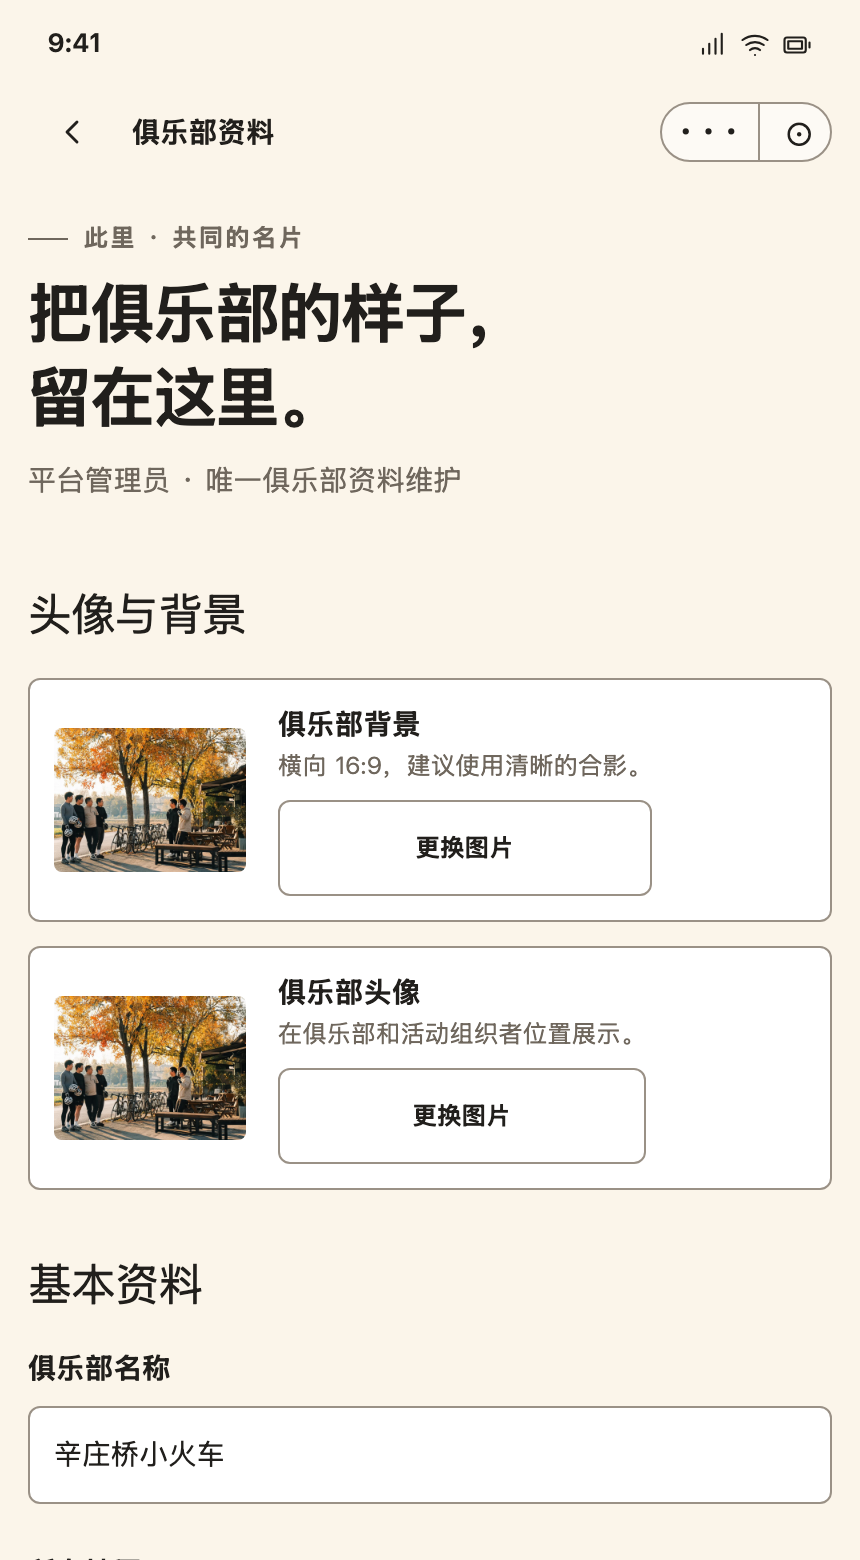
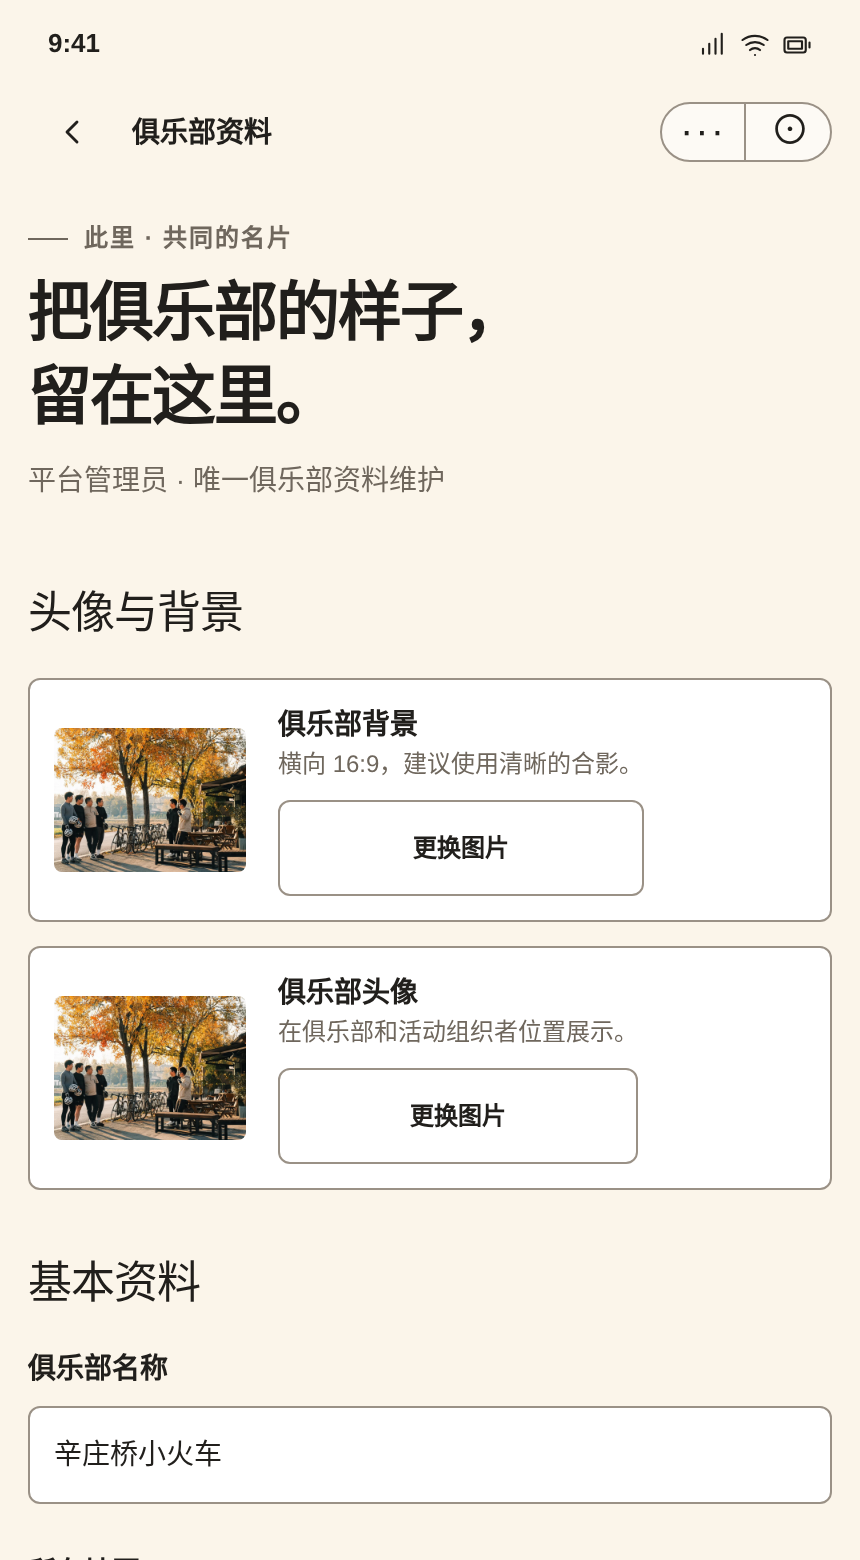
feat(profile): 优化资料授权与骑友媒体加载
收紧活动时长和关键信息的单行展示，为缺失头像与背景增加明确降级。

在资料填写前补充用途确认和稍后退出闭环，并新增可展开的权限状态卡。

启用共享头像延迟加载和渐进显示，同步发布日志、响应式视觉证据与回归测试。

diff --git a/miniprogram/pages/profile-edit/index.ts b/miniprogram/pages/profile-edit/index.ts
@@ -19,6 +19,7 @@ const MAX_BACKGROUND_SOURCE_BYTES = 20 * 1024 * 1024;
 const BACKGROUND_COMPRESS_QUALITY = 82;
 const BACKGROUND_COMPRESS_WIDTH = 1600;
 const BACKGROUND_COMPRESS_HEIGHT = 900;
+const PROFILE_CONSENT_STORAGE_KEY = 'cili-profile-media-consent-v1';
 const PROFILE_BACKGROUND_CATEGORY = 'ride' as const;
 type MediaStage = 'selection' | 'authorize' | 'upload' | 'finalize' | 'setAvatar' | 'preview';
 type SelectedImage = { path: string; size?: number };
@@ -471,9 +472,18 @@ Page({
     avatarPreviewUrl: '',
     canEditDetails: false,
     photoItems: [] as PhotoItem[],
+    consentVisible: false,
+    permissionDetailsVisible: false,
   },
   async onLoad() {
     this.unloaded = false;
+    let consentAcknowledged = false;
+    try {
+      consentAcknowledged = Boolean(wx.getStorageSync(PROFILE_CONSENT_STORAGE_KEY));
+    } catch {
+      // 本地存储不可用时仍允许用户通过本次确认继续。
+    }
+    this.safeSetData({ consentVisible: !consentAcknowledged });
     const state = await runPageTask(() => rideService.getProfile(), '资料加载失败');
     const loadedProfile = normalizeBackgroundProfile(state.data || null);
     this.loadedSensitive = sensitiveValues(loadedProfile);
@@ -496,6 +506,25 @@ Page({
     );
     await Promise.all([this.loadAvatarPreview(cardPromise), this.loadPhotoPreviews(cardPromise)]);
   },
+  acknowledgeConsent() {
+    try {
+      wx.setStorageSync(PROFILE_CONSENT_STORAGE_KEY, true);
+    } catch {
+      // 确认结果写入失败不阻断本次编辑。
+    }
+    this.safeSetData({ consentVisible: false });
+  },
+  deferConsent() {
+    this.safeSetData({ consentVisible: false });
+    wx.navigateBack?.();
+  },
+  showConsent() {
+    this.safeSetData({ consentVisible: true });
+  },
+  togglePermissionDetails() {
+    this.safeSetData({ permissionDetailsVisible: !this.data.permissionDetailsVisible });
+  },
+  keepConsentSheet() {},
   onHide() {
     this.avatarPreviewRequestId += 1;
     this.photoPreviewRequestId += 1;

diff --git a/tests/profile-consent-performance.test.ts b/tests/profile-consent-performance.test.ts
@@ -1,0 +1,40 @@
+// @ts-expect-error The repository intentionally omits Node typings; Vitest provides this runtime.
+import { readFileSync } from 'node:fs';
+import { describe, expect, it } from 'vitest';
+
+const read = (path: string) => readFileSync(path, 'utf8');
+
+describe('资料授权、骑友媒体与加载体验优化', () => {
+  it('资料填写前展示用途说明并保留稍后再说闭环', () => {
+    const template = read('miniprogram/pages/profile-edit/index.wxml');
+    const source = read('miniprogram/pages/profile-edit/index.ts');
+    expect(template).toContain('这些资料会用在哪里？');
+    expect(template).toContain('确认并继续填写');
+    expect(template).toContain('稍后再说');
+    expect(source).toContain('PROFILE_CONSENT_STORAGE_KEY');
+    expect(source).toContain('acknowledgeConsent');
+  });
+
+  it('资料页持续展示可展开的权限状态卡', () => {
+    const template = read('miniprogram/pages/profile-edit/index.wxml');
+    expect(template).toContain('资料展示权限');
+    expect(template).toContain("p.avatarVisibility === 'public'");
+    expect(template).toContain('重新查看授权说明');
+  });
+
+  it('活动指标保持单行并为骑友媒体提供明确降级', () => {
+    const template = read('miniprogram/pages/activity-detail/index.wxml');
+    const style = read('miniprogram/pages/activity-detail/index.wxss');
+    const source = read('miniprogram/pages/activity-detail/index.ts');
+    expect(source).toContain('`${hours}h ${minutes}min`');
+    expect(style).toContain('white-space: nowrap');
+    expect(template).toContain('尚未公开头像');
+    expect(template).toContain('rider-dialog-photo--fallback');
+  });
+
+  it('共享头像启用延迟加载与渐进显示', () => {
+    const avatar = read('miniprogram/components/cili-avatar/index.wxml');
+    expect(avatar).toContain('lazy-load="{{true}}"');
+    expect(avatar).toContain('fade-in="{{true}}"');
+  });
+});

diff --git a/tests/settings-page.test.ts b/tests/settings-page.test.ts
@@ -62,39 +62,19 @@ describe('设置页', () => {
     await import('../miniprogram/pages/settings/index');
   });
 
-  it('当前版本为 2026.10.24.1 且 latest 唯一，上一版转为历史项', () => {
-    expect(CLIENT_RELEASE_VERSION).toBe('2026.10.24.1');
-    expect(page.data.releaseNotes).toHaveLength(30);
+  it('当前版本为 2026.10.24.2 且 latest 唯一，上一版转为历史项', () => {
+    expect(CLIENT_RELEASE_VERSION).toBe('2026.10.24.2');
+    expect(page.data.releaseNotes).toHaveLength(31);
     expect(page.data.currentRelease).toBe(page.data.releaseNotes[0]);
     expect(page.data.currentRelease).toMatchObject({
-      version: '2026.10.24.1',
+      version: '2026.10.24.2',
       date: '2026-10-24',
-      title: '页面布局和操作反馈更顺手',
+      title: '头像授权和页面加载更清晰',
       latest: true,
     });
     expect(page.data.releaseNotes[1]).toMatchObject({
-      version: '2026.10.23.1',
-      title: '头像、状态文字与群二维码显示更清晰',
-      latest: false,
-    });
-    expect(page.data.releaseNotes[2]).toMatchObject({
-      version: '2026.10.22.4',
-      title: '骑行影像志运行态视觉对齐',
-      latest: false,
-    });
-    expect(page.data.releaseNotes[3]).toMatchObject({
-      version: '2026.10.22.3',
-      title: '影像志排版与设计稿逐页对齐',
-      latest: false,
-    });
-    expect(page.data.releaseNotes[4]).toMatchObject({
-      version: '2026.10.22.2',
-      title: '骑行影像志，头像和背景合为我的名片',
-      latest: false,
-    });
-    expect(page.data.releaseNotes[5]).toMatchObject({
-      version: '2026.10.21.7',
-      title: '活动发现与报名反馈更清晰',
+      version: '2026.10.24.1',
+      title: '页面布局和操作反馈更顺手',
       latest: false,
     });
     expect(page.data.releaseNotes.filter((note: { latest: boolean }) => note.latest)).toHaveLength(

diff --git a/miniprogram/pages/settings/index.ts b/miniprogram/pages/settings/index.ts
@@ -13,9 +13,22 @@ const RELEASE_NOTES = [
   {
     version: CLIENT_RELEASE_VERSION,
     date: '2026-10-24',
+    title: '头像授权和页面加载更清晰',
+    summary: '优化报名骑友头像与背景展示，并补充资料授权说明和渐进加载反馈。',
+    latest: true,
+    features: [
+      '活动时长与关键数据改为紧凑单行展示，减少窄屏换行',
+      '报名骑友头像和背景增加明确占位与加载失败降级',
+      '完善资料前先确认使用范围，并可随时查看权限状态',
+      '头像启用延迟加载与渐进显示，降低页面首次加载压力',
+    ],
+  },
+  {
+    version: '2026.10.24.1',
+    date: '2026-10-24',
     title: '页面布局和操作反馈更顺手',
     summary: '在保留骑行影像志主题的基础上，统一页面节奏、报名反馈与路线状态。',
-    latest: true,
+    latest: false,
     features: [
       '活动筛选吸顶、日期滑动提示与卡片按压反馈更清晰',
       '活动费用前置，路线下载和复制状态集中展示',

diff --git a/miniprogram/pages/activity-detail/index.ts b/miniprogram/pages/activity-detail/index.ts
@@ -124,8 +124,8 @@ function formatRideDuration(seconds?: number) {
   const totalMinutes = Math.round(seconds / 60);
   const hours = Math.floor(totalMinutes / 60);
   const minutes = totalMinutes % 60;
-  if (!hours) return `${minutes} 分钟`;
-  return minutes ? `${hours} 小时 ${minutes} 分` : `${hours} 小时`;
+  if (!hours) return `${minutes}min`;
+  return minutes ? `${hours}h ${minutes}min` : `${hours}h`;
 }
 
 function officialRouteId(route: any): string {

diff --git a/tests/activity-detail-design.test.ts b/tests/activity-detail-design.test.ts
@@ -725,7 +725,7 @@ describe('活动详情官方路线、分享与 GPX 下载', () => {
     expect(context.data).not.toHaveProperty('hasRouteOutline');
     expect(context.data).not.toHaveProperty('routeStartCoordinate');
     expect(context.data).not.toHaveProperty('routeEndCoordinate');
-    expect(context.data.estimatedRideTime).toBe('4 小时');
+    expect(context.data.estimatedRideTime).toBe('4h');
     expect(context.data.officialRouteId).toBe('');
   });
 

diff --git a/tests/profile-edit-avatar.test.ts b/tests/profile-edit-avatar.test.ts
@@ -395,7 +395,8 @@ describe('资料编辑头像交互', () => {
 
     expect(page.data.loading).toBe(false);
     expect(page.data.p).not.toBeNull();
-    expect(wx.getStorageSync).not.toHaveBeenCalled();
+    expect(wx.getStorageSync).toHaveBeenCalledOnce();
+    expect(wx.getStorageSync).toHaveBeenCalledWith('cili-profile-media-consent-v1');
     expect(wx.setStorageSync).not.toHaveBeenCalled();
     expect(rideService.cleanupSpy).not.toHaveBeenCalled();
   });

diff --git a/miniprogram/config/release.ts b/miniprogram/config/release.ts
@@ -1,1 +1,1 @@
-export const CLIENT_RELEASE_VERSION = '2026.10.24.1';
+export const CLIENT_RELEASE_VERSION = '2026.10.24.2';

diff --git a/docs/verification/2026-10-24-profile-consent-performance.md b/docs/verification/2026-10-24-profile-consent-performance.md
@@ -1,0 +1,29 @@
+# 2026-10-24 资料授权、骑友媒体与加载体验优化验收
+
+## 验收范围
+
+- 活动详情与路线指标使用紧凑单行格式，窄屏不再拆分时长。
+- 报名骑友缺失头像时展示明确占位，缺失背景时使用品牌降级背景。
+- 编辑个人资料前展示用途确认，并提供“稍后再说”退出闭环。
+- 资料页持续展示权限状态卡，可展开查看公开范围并重新阅读授权说明。
+- 共享头像启用延迟加载与渐进显示，保留图片失败降级。
+
+## 自动化验证
+
+- 定向测试：5 个文件、28 项测试通过。
+- `npm run validate`：通过。
+- `npm run coverage`：通过；cloud.ts lines 91.02%、branches 89.00%、functions 96.60%、statements 90.06%。
+- `npm run audit:all`：通过，业务依赖 0 漏洞；微信上传工具既有例外仍在有效期内。
+- `git diff --check`：通过。
+
+## 视觉与响应式验收
+
+- 16 个页面 × 340 / 375 / 430 三档宽度，共 48 个组合通过。
+- 无横向溢出、遮挡、无效小触控目标或控制台错误。
+- UI 同步严格模式通过，截图证据与当前 UI 内容摘要一致。
+
+## 部署影响
+
+- 仅修改小程序端页面、共享头像组件、测试和视觉证据。
+- 不涉及云函数、数据库结构或 CloudBase 索引，无需部署云函数。
+- 客户端版本更新为 `2026.10.24.2`。
